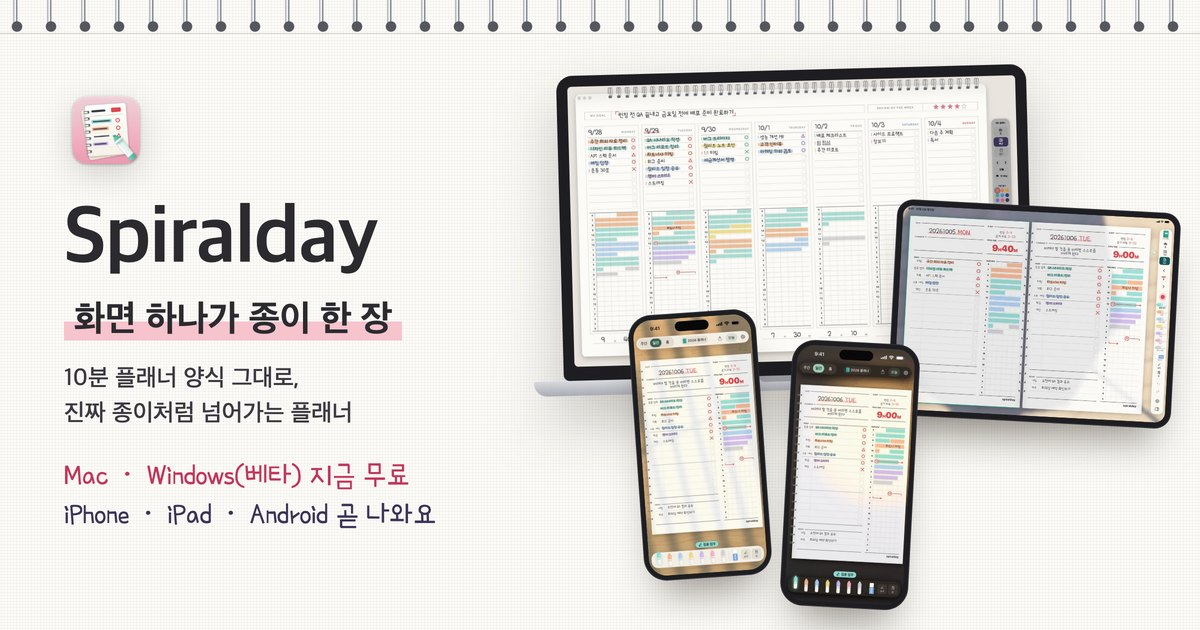
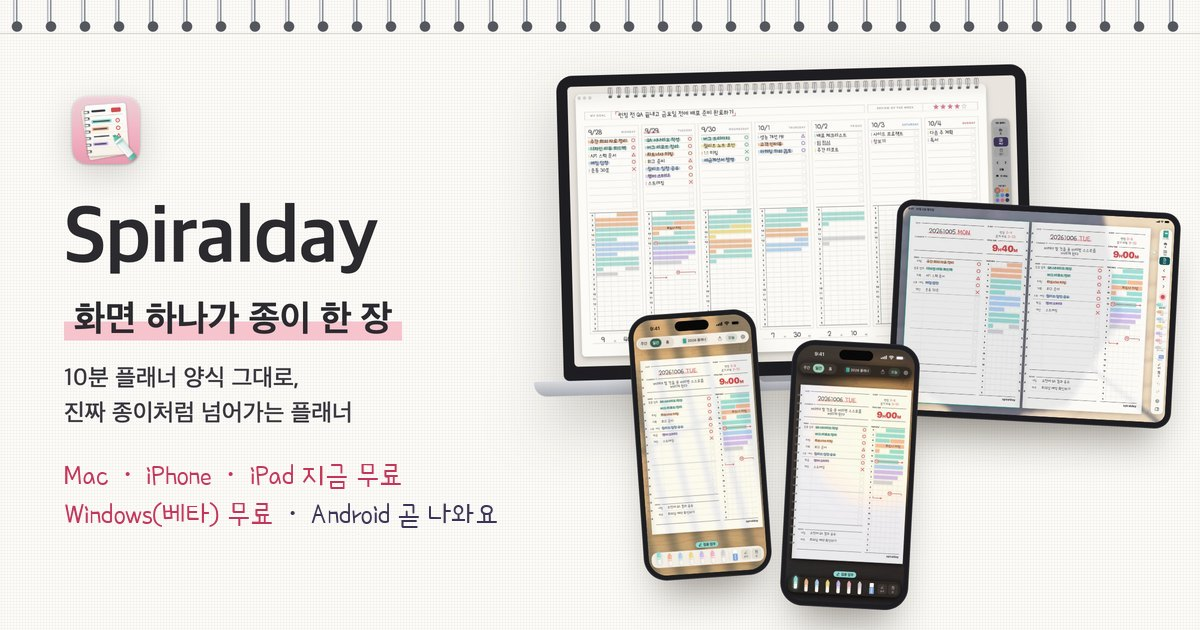
사이트: iPhone · iPad 앱 출시 — App Store 받기로 (스토어 ID 는 APPSTORE_ID_TBD 자리표시)
iOS · iPadOS 1.0.0 (5) 이 10/9 심사를 통과해서 PLATFORMS.ios 를 'available' 로 바꾸고,
PLATFORMS 주석의 출시 체크리스트를 하나씩 맞춤. Android 는 '곧 나와요' 그대로.

- 주소: https://apps.apple.com/kr/app/spiralday/idAPPSTORE_ID_TBD — Apple 이 만들어 주는 링크와 같은 꼴
  (나라 · 이름 · id). 사이트가 한국어라 /kr/ 로, 기기의 App Store 는 내 계정 스토어로 연다.
  ID 가 나오면 sed 한 번으로 4곳(JSON-LD · PLATFORMS · iPhone · iPad 카드 · 설치 안내)이 채워짐
- 1. <title> · description · og:description · twitter:description: Mac · Windows(베타) · iPhone · iPad 지금 무료,
  Android 곧
- 2. JSON-LD: operatingSystem 에 iOS · iPadOS, downloadUrl 에 App Store 주소
- 3. og.jpg: 아래 두 줄만 'Mac · iPhone · iPad 지금 무료 / Windows(베타) 무료 · Android 곧 나와요' 로.
  생성기가 저장소에 없어서 지금 그림 위에 같은 종이 결로 옛 글자를 덮고 같은 글꼴(Poor Story 29px) ·
  같은 색(--pink-ink · --plum)으로 다시 씀. og:image · twitter:image ?v=20261009
- 4. HTML 기본 글자를 스크립트가 만드는 것과 똑같이: 배지, data-text 세 곳, 대문 상태 줄, 대문 사양 줄,
  iPhone · iPad 카드의 받기 버튼, 설치 안내(나중 모양 뗌). 대문 그림은 이미 iPhone · iPad 실제 화면이라 그대로
- '곧 나와요' · '미리 보기' · '준비 중인' 남은 글 걷기: 폰 안내의 iOS 줄, 카드의 'App Store 에 곧 나와요',
  기능 위 안내, iPad · iPhone 과 책상의 미리 보기 배지, 동기화 그림 설명, 마지막 줄의 소식 링크(이제 Android 만)
- 동기화: '지금은 Mac · Windows · iPhone · iPad 끼리 맞춰요'
- 폰 · 태블릿에서 다른 모바일 OS 의 스토어 버튼은 숨김 (Android 에서 App Store 버튼이 마지막 줄에 뜨지 않게)
- 바닥글에 Apple 상표 표시 한 줄 (App Store 마케팅 지침의 credit line)
- sitemap lastmod: 대문 10/9, 처리방침 10/8
- privacy.html 은 이미 iPhone · iPad 앱을 다뤄서 그대로

확인: 1440 · 1280 · 820(iPad) · 375(iPhone · Android · 데스크톱 UA) 가로 넘침 0, 밝게 · 어둡게, 스크립트 끔,
[…]

Changed region(s): [[0.0308, 0.7238, 0.4317, 0.8444]]

diff --git a/site/index.html b/site/index.html
@@ -3,8 +3,8 @@
 <head>
 <meta charset="utf-8">
 <meta name="viewport" content="width=device-width, initial-scale=1">
-<title>Spiralday — 10분 종이 플래너 · Mac · Windows 무료 (모바일 곧)</title>
-<meta name="description" content="Mac · Windows(베타) 에서 지금 무료로 쓰는 10분 단위 종이 플래너. 형광펜 타임테이블, ○△× 체크, 진짜 종이처럼 넘어가는 페이지, A4 반쪽 PDF 인쇄. iPhone · iPad · Android 앱도 곧 나와요. 기록은 내 기기에만.">
+<title>Spiralday — 10분 종이 플래너 · Mac · Windows · iPhone · iPad 무료</title>
+<meta name="description" content="Mac · Windows(베타) · iPhone · iPad 에서 지금 무료로 쓰는 10분 단위 종이 플래너. 형광펜 타임테이블, ○△× 체크, 진짜 종이처럼 넘어가는 페이지, A4 반쪽 PDF 인쇄. Android 앱도 곧 나와요. 기록은 내 기기에만.">
 <link rel="canonical" href="https://spiralday.com/">
 <meta name="theme-color" content="#FCFBF7">
 <meta name="color-scheme" content="light">
@@ -16,18 +16,18 @@
 <meta property="og:locale" content="ko_KR">
 <meta property="og:url" content="https://spiralday.com/">
 <meta property="og:title" content="Spiralday — 화면 하나가 종이 한 장인 10분 플래너">
-<meta property="og:description" content="10분 단위로 하루를 칠하고, 진짜 종이처럼 넘기는 플래너. Mac · Windows(베타) 는 지금 무료, iPhone · iPad · Android 는 곧 나와요.">
-<meta property="og:image" content="https://spiralday.com/assets/og.jpg?v=20261005">
+<meta property="og:description" content="10분 단위로 하루를 칠하고, 진짜 종이처럼 넘기는 플래너. Mac · Windows(베타) · iPhone · iPad 는 지금 무료, Android 는 곧 나와요.">
+<meta property="og:image" content="https://spiralday.com/assets/og.jpg?v=20261009">
 <meta property="og:image:type" content="image/jpeg">
 <meta property="og:image:width" content="1200">
 <meta property="og:image:height" content="630">
 <meta property="og:image:alt" content="Spiralday 주간 · 일간 페이지가 Mac, iPad, iPhone 에 함께 떠 있는 모습. iPad 는 바닷가 책상, iPhone 두 대는 학교 책상의 낮과 저녁">
 <meta name="twitter:card" content="summary_large_image">
 <meta name="twitter:title" content="Spiralday — 화면 하나가 종이 한 장인 10분 플래너">
-<meta name="twitter:description" content="10분 단위로 하루를 칠하고, 진짜 종이처럼 넘기는 플래너. Mac · Windows(베타) 는 지금 무료, iPhone · iPad · Android 는 곧 나와요.">
-<meta name="twitter:image" content="https://spiralday.com/assets/og.jpg?v=20261005">
+<meta name="twitter:description" content="10분 단위로 하루를 칠하고, 진짜 종이처럼 넘기는 플래너. Mac · Windows(베타) · iPhone · iPad 는 지금 무료, Android 는 곧 나와요.">
+<meta name="twitter:image" content="https://spiralday.com/assets/og.jpg?v=20261009">
 <meta name="twitter:image:alt" content="Spiralday 주간 · 일간 페이지가 Mac, iPad, iPhone 에 함께 떠 있는 모습. iPad 는 바닷가 책상, iPhone 두 대는 학교 책상의 낮과 저녁">
-<!-- 검색 엔진용 앱 정보. 스토어에 나오면 operatingSystem · downloadUrl 을 함께 늘려 주세요 (아래 스크립트 맨 위의 출시 체크리스트) -->
+<!-- 검색 엔진용 앱 정보. Google Play 에 나오면 operatingSystem · downloadUrl 에 Android 를 더해 주세요 (아래 스크립트 맨 위의 출시 체크리스트) -->
 <script type="application/ld+json">
 {
   "@context": "https://schema.org",
@@ -36,10 +36,11 @@
   "description": "10분 단위 종이 플래너를 그대로 옮긴 플래너 앱. 형광펜 타임테이블, ○△× 체크, 진짜 종이처럼 넘어가는 페이지, A4 반쪽 PDF 인쇄.",
   "url": "https://spiralday.com/",
   "applicationCategory": "BusinessApplication",
-  "operatingSystem": "macOS 14+, Windows 10, Windows 11",
+  "operatingSystem": "macOS 14+, Windows 10, Windows 11, iOS, iPadOS",
   "downloadUrl": [
     "https://github.com/Grwaywee/spiralday/releases/latest/download/Spiralday.dmg",
-    "https://github.com/Grwaywee/spiralday/releases/download/win-latest/Spiralday-Setup.exe"
+    "https://github.com/Grwaywee/spiralday/releases/download/win-latest/Spiralday-Setup.exe",
+    "https://apps.apple.com/kr/app/spiralday/idAPPSTORE_ID_TBD"
   ],
   "image": "https://spiralday.com/assets/og.jpg",
   "screenshot": "https://spiralday.com/assets/hero-daily.webp",
@@ -60,7 +61,7 @@
   /*
    * 기기별 출시 상태 — 여기 한 곳만 바꾸면 배지 · 버튼 · 안내 글 · 대문 소개 · 마지막 줄이 따라 바뀌어요.
    * status: 'available'(지금) · 'beta'(베타) · 'soon'(곧). 스토어에 나오면 예를 들어
-   *   ios: { status: 'available', url: 'https://apps.apple.com/app/id…' },
+   *   android: { status: 'available', url: 'https://play.google.com/store/apps/details?id=…' },
    * 처럼 한 줄만 바꾸면 돼요.
    *
    * 출시 체크리스트 — 스크립트가 닿지 않는 곳이라 손으로 맞춰 주세요 (검색 결과 · 링크 미리 보기 · 스크립트 없이 보는 사람용):
@@ -68,13 +69,13 @@
    *   2. JSON-LD 의 operatingSystem · downloadUrl
    *   3. assets/og.jpg 의 글자 (다시 뽑으면 og:image 의 ?v= 값도 올리기)
    *   4. HTML 기본 글자: 배지(data-badge), data-text 세 곳(대문 소개 · 기기 설명 · 마지막 줄), 대문 상태 줄(data-avail),
-   *      대문 meta 의 사양 줄, 대문 그림(폰 · 태블릿은 아직 '미리 보기' 화면)
+   *      대문 meta 의 사양 줄, 대문 그림(폰 · 태블릿 그림은 iPhone · iPad 화면)
    *   5. privacy.html (새 앱 · 동기화가 처리하는 정보)
    */
   var PLATFORMS = {
     mac:     { status: 'available', url: 'https://github.com/Grwaywee/spiralday/releases/latest/download/Spiralday.dmg' },
     windows: { status: 'beta',      url: 'https://github.com/Grwaywee/spiralday/releases/download/win-latest/Spiralday-Setup.exe' },
-    ios:     { status: 'soon',      url: null },
+    ios:     { status: 'available', url: 'https://apps.apple.com/kr/app/spiralday/idAPPSTORE_ID_TBD' },
     android: { status: 'soon',      url: null },
     sync:    { status: 'available' }
   };
@@ -312,6 +313,8 @@
   html.m-soon[data-visitor="ios"] #p-ios [data-get],
   html.m-soon[data-visitor="android"] #p-android [data-get] { background: var(--plum); color: #fff; box-shadow: 0 10px 24px -8px rgba(60,51,87,.55); }
   html.is-mobile .cta [data-os="mac"], html.is-mobile .cta [data-os="windows"] { display: none; }
+  /* 폰 · 태블릿: 다른 모바일 OS 의 스토어 버튼은 숨긴다 (Android 에서 App Store, iPhone · iPad 에서 Google Play) */
+  html[data-visitor="android"] .cta [data-os="ios"], html[data-visitor="ios"] .cta [data-os="android"] { display: none; }
   html.is-mobile .hero .avail, html.is-mobile .hero .meta .spec { display: none; }
   html.m-soon .hero .lead [data-text] { display: none; }
 
@@ -577,7 +580,7 @@
     <div class="hero-text">
       <p class="label">Daily paper planner</p>
       <h1>화면 하나가<br><span class="hl" style="--c: #F7C3CD">종이 한 장.</span></h1>
-      <p class="lead">10분 단위 종이 플래너를 그대로 옮긴 플래너예요. 형광펜으로 하루를 칠하고, 펜으로 ○△× 체크하고, 다 쓰면 스프링 노트처럼 한 장 넘겨요.<span data-text="lead"> Mac · Windows 에서 지금 무료로 쓸 수 있고, iPhone&nbsp;·&nbsp;iPad · Android 앱도 곧 나와요.</span></p>
+      <p class="lead">10분 단위 종이 플래너를 그대로 옮긴 플래너예요. 형광펜으로 하루를 칠하고, 펜으로 ○△× 체크하고, 다 쓰면 스프링 노트처럼 한 장 넘겨요.<span data-text="lead"> Mac · Windows · iPhone&nbsp;·&nbsp;iPad 에서 지금 무료로 쓸 수 있고, Android 앱도 곧 나와요.</span></p>
     </div>
 
     <div class="hero-shot">
@@ -591,9 +594,9 @@
     </div>
 
     <div class="hero-act">
-      <!-- iPhone · iPad · Android 로 들어오면 스크립트가 보여 준다 -->
+      <!-- 앱이 아직 없는 폰 · 태블릿(지금은 Android)으로 들어오면 스크립트가 보여 준다 -->
       <div class="soon-note" id="mobile-note">
-        <p class="soon-title"><span class="hl" style="--c: #CDB6EF" data-for="ios">iPhone · iPad 앱은 App Store 에 곧 나와요.</span><span class="hl" style="--c: #CDB6EF" data-for="android">Android 앱은 Google Play 에 곧 나와요.</span></p>
+        <p class="soon-title"><span class="hl" style="--c: #CDB6EF" data-for="android">Android 앱은 Google Play 에 곧 나와요.</span></p>
         <p>지금은 Mac · Windows 에서 먼저 써 보세요. 나오는 날 Threads 에서 가장 먼저 알려 드릴게요.</p>
         <div class="row">
           <a class="btn primary" href="https://www.threads.com/@owlu_app" target="_blank" rel="noopener">Threads 에서 출시 소식 받기<span class="sr"> (새 창)</span></a>
@@ -617,11 +620,11 @@
       </div>
       <script>(function () { var o = document.documentElement.getAttribute('data-visitor'), c = document.currentScript.previousElementSibling, m = o && c.querySelector('[data-os="' + o + '"]'); if (m && c.firstElementChild !== m) c.insertBefore(m, c.firstElementChild); })();</script>
       <p class="avail" data-avail>
-        <span class="grp"><span class="badge is-available">지금 무료</span><span><a href="#p-mac">Mac</a> · <a href="#p-windows">Windows</a>&nbsp;(베타)</span></span>
-        <span class="grp"><span class="badge is-soon">곧 나와요</span><span><a href="#p-ios">iPhone&nbsp;·&nbsp;iPad</a> · <a href="#p-android">Android</a></span></span>
+        <span class="grp"><span class="badge is-available">지금 무료</span><span><a href="#p-mac">Mac</a> · <a href="#p-windows">Windows</a>&nbsp;(베타) · <a href="#p-ios">iPhone&nbsp;·&nbsp;iPad</a></span></span>
+        <span class="grp"><span class="badge is-soon">곧 나와요</span><span><a href="#p-android">Android</a></span></span>
       </p>
       <p class="other-note" id="other-note">Linux · ChromeOS 용 앱은 아직 없어요. 필요하면 <a href="https://www.threads.com/@owlu_app" target="_blank" rel="noopener">Threads DM<span class="sr"> (새 창)</span></a> 으로 알려 주세요.</p>
-      <p class="meta">무료 · 계정 없이 · 기록은 내 기기에만<span class="spec"><br>macOS 14 이상 (Apple Silicon &amp; Intel) · Windows&nbsp;10&nbsp;·&nbsp;11 64비트&nbsp;(베타)</span></p>
+      <p class="meta">무료 · 계정 없이 · 기록은 내 기기에만<span class="spec"><br>macOS 14 이상 (Apple Silicon &amp; Intel) · Windows&nbsp;10&nbsp;·&nbsp;11 64비트&nbsp;(베타) · iPhone&nbsp;·&nbsp;iPad</span></p>
       <p class="ask-line">요청 · 버그는 <a href="https://www.threads.com/@owlu_app" target="_blank" rel="noopener">Threads DM<span class="sr"> (새 창)</span></a> 이나 <a href="mailto:contact@leanagilehungry.com?subject=%5BSpiralday%5D%20%EC%9A%94%EC%B2%AD%20%C2%B7%20%EB%B2%84%EA%B7%B8%20%EC%8B%A0%EA%B3%A0">메일</a>로 보내 주세요.</p>
     </div>
   </div>
@@ -630,7 +633,7 @@
   <section id="platforms" aria-labelledby="platforms-h">
     <p class="label">Platforms</p>
     <h2 id="platforms-h">어느 기기에서든 <span class="hl" style="--c: #A9CFF3">같은 종이</span>.</h2>
-    <p class="desc" data-text="desc">Mac · Windows&nbsp;(베타) 는 지금 바로 무료로 받을 수 있어요. iPhone&nbsp;·&nbsp;iPad · Android 앱은 준비하고 있어요.</p>
+    <p class="desc" data-text="desc">Mac · Windows&nbsp;(베타) · iPhone&nbsp;·&nbsp;iPad 는 지금 바로 무료로 받을 수 있어요. Android 앱은 준비하고 있어요.</p>
     <div class="plats" data-reorder>
       <article class="plat" id="p-mac" data-platform="mac" aria-labelledby="p-mac-h">
         <div class="plat-head">
@@ -676,9 +679,8 @@
         <div class="plat-head">
           <svg viewBox="0 0 24 24" fill="none" stroke="currentColor" stroke-width="1.8" stroke-linecap="round" stroke-linejoin="round" aria-hidden="true"><rect x="2.5" y="3" width="13" height="18" rx="2"/><rect x="13.5" y="8.5" width="8" height="13" rx="1.8" fill="#fff"/><path d="M8 18h2M16.8 19h1.4"/></svg>
           <h3 id="p-ios-h">iPhone · iPad</h3>
-          <span class="badge is-soon" data-badge="ios">곧 나와요</span>
+          <span class="badge is-available" data-badge="ios">지금 무료</span>
         </div>
-        <p class="where" data-show="ios:soon">App Store 에 곧 나와요</p>
         <ul class="spec">
           <li>iPad 는 [어제 | 오늘] 이 펼쳐진 책상</li>
           <li>Apple Pencil — 손바닥이 닿아도 괜찮고, 스크리블로 손글씨를 글자로 바꿔요</li>
@@ -687,7 +689,10 @@
           <li>홈 화면 · 잠금 화면 위젯</li>
         </ul>
         <div class="act">
-          <a class="btn soft" data-get="ios" data-state="notify" href="https://www.threads.com/@owlu_app" target="_blank" rel="noopener">Threads 에서 출시 소식 받기<span class="sr"> (새 창)</span></a>
+          <a class="btn primary" data-get="ios" data-state="get" href="https://apps.apple.com/kr/app/spiralday/idAPPSTORE_ID_TBD">
+            <svg width="18" height="18" viewBox="0 0 24 24" fill="none" stroke="currentColor" stroke-width="2.4" stroke-linecap="round" stroke-linejoin="round" aria-hidden="true"><path d="M12 4v11m0 0l-4.5-4.5M12 15l4.5-4.5M5 20h14"/></svg>
+            App Store 에서 받기
+          </a>
         </div>
       </article>
 
@@ -713,7 +718,7 @@
 
   <!-- 일간 -->
   <section id="features" aria-labelledby="features-h">
-    <p class="basis"><span class="badge is-available">지금 받을 수 있는 앱</span> <span>아래 기능은 Mac · Windows 앱 기준이에요. 폰 · 태블릿 앱은 <a href="#devices">미리 보기</a>에서 볼 수 있어요.</span></p>
+    <p class="basis"><span class="badge is-available">지금 받을 수 있는 앱</span> <span>아래 기능은 Mac · Windows 앱 기준이에요. iPhone · iPad 앱 화면은 <a href="#devices">iPad · iPhone</a> 에서 볼 수 있어요.</span></p>
     <p class="label">Daily</p>
     <div class="split">
       <div>
@@ -824,12 +829,11 @@
     </div>
   </section>
 
-  <!-- iPad · iPhone · Android 미리 보기 -->
+  <!-- iPad · iPhone -->
   <section id="devices" aria-labelledby="devices-h">
     <p class="label keep">iPad · iPhone</p>
     <h2 id="devices-h">iPad 에선 <span class="hl" style="--c: #F3DB78">펼친 노트</span>,<br>폰에선 <span class="hl">손바닥 수첩</span>.</h2>
     <p class="desc">iPad 는 어제와 오늘이 나란히 펼쳐진 책상이에요. Apple Pencil 로 쓰고, 손바닥이 화면에 닿아도 괜찮아요. 폰에서는 ‘쓰기’ · ‘시간’ 을 누르면 그 칸으로 카메라처럼 다가가서, 크게 쓰고 칠해요.</p>
-    <p class="preview-note" data-show="ios:soon"><span class="badge is-soon">미리 보기</span> 출시를 준비 중인 앱의 실제 화면이에요.</p>
 
     <figure class="device tablet ipad-wrap">
       <div class="frame">
@@ -880,7 +884,7 @@
     <p class="label">Desk</p>
     <h2 id="desk-h">종이 밑에 깔 <span class="hl" style="--c: #F8B38A">책상</span>도 골라요.</h2>
     <p class="desc">바닷가의 파라솔 그늘, 블라인드 사이로 드는 교실 햇살. 종이는 그대로 두고 그 밑의 책상과 빛만 바뀌어요. 해 질 무렵이면 스탠드나 랜턴 같은 저녁 조명으로 천천히 넘어가고, 도구 막대도 그 빛을 따라가요.</p>
-    <p class="preview-note"><span class="badge is-soon" data-show="ios:soon">미리 보기</span> <span>iPhone · iPad 앱의 설정 › 이 기기 › 책상에서 골라요.</span></p>
+    <p class="preview-note"><span>iPhone · iPad 앱의 설정 › 이 기기 › 책상에서 골라요.</span></p>
     <div class="desks">
       <figure class="device iphone lead">
         <div class="frame"><img src="assets/desk-beach-day.webp" srcset="assets/desk-beach-day-260.webp 260w, assets/desk-beach-day.webp 520w" sizes="(max-width: 600px) 46vw, (max-width: 900px) 30vw, 246px" width="520" height="1130" loading="lazy" decoding="async" alt="iPhone 일간 페이지를 바닷가 책상에 놓은 화면. 고운 모래 위로 파라솔 그늘이 비스듬히 드리워 있어요"></div>
@@ -909,13 +913,13 @@
     </div>
   </section>
 
-  <!-- 동기화 (곧) -->
+  <!-- 동기화 -->
   <section id="sync" aria-labelledby="sync-h">
     <div class="sync">
       <div>
         <p class="label">Spiralday Sync</p>
         <h2 id="sync-h">내 기기끼리,<br><span class="hl" style="--c: #8EDCD2">나만 읽을 수 있게</span>.</h2>
-        <p class="intro"><span class="badge is-available" data-badge="sync">지금 쓸 수 있어요</span> <span>켜고 싶은 사람만 켜는 동기화예요. 지금은 Mac · Windows 끼리 맞춰요.</span></p>
+        <p class="intro"><span class="badge is-available" data-badge="sync">지금 쓸 수 있어요</span> <span>켜고 싶은 사람만 켜는 동기화예요. 지금은 Mac · Windows · iPhone · iPad 끼리 맞춰요.</span></p>
         <ul class="marks">
           <li><span class="m" aria-hidden="true">○</span><div><b>종단간 암호화</b> — 플래너는 내 기기에서 잠근 뒤에 보내요. 서버에는 알아볼 수 없는 암호문으로만 남아서, 만든 저희도 읽을 수 없어요.</div></li>
           <li><span class="m" aria-hidden="true">○</span><div><b>계정 없이</b> — 이메일도 비밀번호도 없어요. QR 코드를 찍거나 8자리 코드를 넣으면 연결돼요. 기기를 바꾸거나 잃어버려도 25자리 복구 코드로 다시 이어요. 복구 코드는 저희도 모르니 꼭 따로 적어 두세요.</div></li>
@@ -925,7 +929,7 @@
       </div>
       <figure class="device iphone">
         <div class="frame"><img src="assets/sync-iphone.webp" srcset="assets/sync-iphone-260.webp 260w, assets/sync-iphone.webp 520w" sizes="(max-width: 900px) 226px, 253px" width="520" height="1130" loading="lazy" decoding="async" alt="iPhone 의 동기화 설정 화면. 동기화됨, 이 기기는 종단간 암호화, 연결된 기기 4대 — iPhone, MacBook, 회사 PC, iPad"></div>
-        <figcaption><span data-show="ios:soon">준비 중인 iPhone 앱의 동기화 화면</span><span data-show="ios:out" hidden>동기화 화면 (iPhone)</span></figcaption>
+        <figcaption>동기화 화면 (iPhone)</figcaption>
       </figure>
     </div>
   </section>
@@ -951,10 +955,9 @@
           <li><b>끝</b> — 설치되고 바로 열려요. 새 버전은 앱이 알아서 받아요.</li>
         </ol>
       </div>
-      <div class="inst later" data-platform="ios">
-        <h3>iPhone · iPad <span class="badge is-soon" data-badge="ios">곧 나와요</span></h3>
-        <p data-show="ios:soon">App Store 에 나오면 받기만 하면 돼요. 나오는 날 <a href="https://www.threads.com/@owlu_app" target="_blank" rel="noopener">Threads<span class="sr"> (새 창)</span></a> 에서 바로 알려 드릴게요.</p>
-        <p data-show="ios:out" hidden><a data-get="ios" data-state="get" href="#p-ios">App Store</a> 에서 Spiralday 를 받으면 끝이에요.</p>
+      <div class="inst" data-platform="ios">
+        <h3>iPhone · iPad <span class="badge is-available" data-badge="ios">지금 무료</span></h3>
+        <p><a data-get="ios" data-state="get" href="https://apps.apple.com/kr/app/spiralday/idAPPSTORE_ID_TBD">App Store</a> 에서 Spiralday 를 받으면 끝이에요.</p>
       </div>
       <div class="inst later" data-platform="android">
         <h3>Android <span class="badge is-soon" data-badge="android">곧 나와요</span></h3>
@@ -1010,7 +1013,7 @@
   <section class="final" id="download" aria-labelledby="download-h">
     <img class="icon" src="assets/icon-240.webp" alt="" width="120" height="120" loading="lazy" decoding="async">
     <h2 id="download-h">오늘 한 장, 넘겨 볼까요?</h2>
-    <p class="hand sub" data-text="final">무료 · Mac&nbsp;(macOS&nbsp;14&nbsp;이상) · Windows&nbsp;10&nbsp;·&nbsp;11&nbsp;(베타)<br>iPhone&nbsp;·&nbsp;iPad · Android 는 곧 나와요</p>
+    <p class="hand sub" data-text="final">무료 · Mac&nbsp;(macOS&nbsp;14&nbsp;이상) · Windows&nbsp;10&nbsp;·&nbsp;11&nbsp;(베타) · iPhone&nbsp;·&nbsp;iPad<br>Android 는 곧 나와요</p>
     <!-- 폰 · 태블릿으로 들어왔고 그 기기 앱이 아직이면 이 줄이 먼저 보인다 -->
     <div class="cta cta-mobile">
       <a class="btn primary" href="https://www.threads.com/@owlu_app" target="_blank" rel="noopener">Threads 에서 출시 소식 받기<span class="sr"> (새 창)</span></a>
@@ -1031,7 +1034,7 @@
     </div>
     <script>(function () { var o = document.documentElement.getAttribute('data-visitor'), c = document.currentScript.previousElementSibling, m = o && c.querySelector('[data-os="' + o + '"]'); if (m && c.firstElementChild !== m) c.insertBefore(m, c.firstElementChild); })();</script>
     <p class="desk-link"><a href="#platforms">Mac · Windows(베타) 용은 컴퓨터에서 받아요 →</a></p>
-    <p class="meta"><a href="https://github.com/Grwaywee/spiralday/releases">지난 버전 모두 보기</a><span data-show="ios:soon android:soon"> · <a href="#platforms">iPhone&nbsp;·&nbsp;iPad&nbsp;·&nbsp;Android&nbsp;소식</a></span></p>
+    <p class="meta"><a href="https://github.com/Grwaywee/spiralday/releases">지난 버전 모두 보기</a><span data-show="android:soon"> · <a href="#p-android">Android&nbsp;소식</a></span></p>
   </section>
   </main>
 </div>
@@ -1062,7 +1065,7 @@
         <a href="https://leanagilehungry.com" target="_blank" rel="noopener">회사 소개<span class="sr"> (새 창)</span></a>
       </nav>
     </div>
-    <p class="legal">© 2026 LeanAgileHungry.Inc · Spiralday™ 는 LeanAgileHungry Inc. 의 상표예요 (<a href="https://github.com/Grwaywee/spiralday/blob/main/TRADEMARKS.md">상표 정책</a>) · Mac 앱 소스 코드는 <a href="https://github.com/Grwaywee/spiralday/blob/main/LICENSE">PolyForm Noncommercial 1.0.0</a> 으로 비영리 목적에 공개돼 있어요 (<a href="https://github.com/Grwaywee/spiralday/blob/main/LICENSE-HISTORY.md">라이선스를 바꾸기 전에 MIT 로 공개된 버전은 MIT 그대로</a>) · 손글씨 폰트: Poor Story © YoonDesign Inc. (SIL OFL 1.1)</p>
+    <p class="legal">© 2026 LeanAgileHungry.Inc · Spiralday™ 는 LeanAgileHungry Inc. 의 상표예요 (<a href="https://github.com/Grwaywee/spiralday/blob/main/TRADEMARKS.md">상표 정책</a>) · Mac 앱 소스 코드는 <a href="https://github.com/Grwaywee/spiralday/blob/main/LICENSE">PolyForm Noncommercial 1.0.0</a> 으로 비영리 목적에 공개돼 있어요 (<a href="https://github.com/Grwaywee/spiralday/blob/main/LICENSE-HISTORY.md">라이선스를 바꾸기 전에 MIT 로 공개된 버전은 MIT 그대로</a>) · 손글씨 폰트: Poor Story © YoonDesign Inc. (SIL OFL 1.1) · Apple, iPhone, iPad, Mac 은 미국과 그 밖의 나라에 등록된 Apple Inc. 의 상표이고, App&nbsp;Store 는 Apple Inc. 의 서비스 마크예요</p>
   </div>
 </footer>
 <script>
